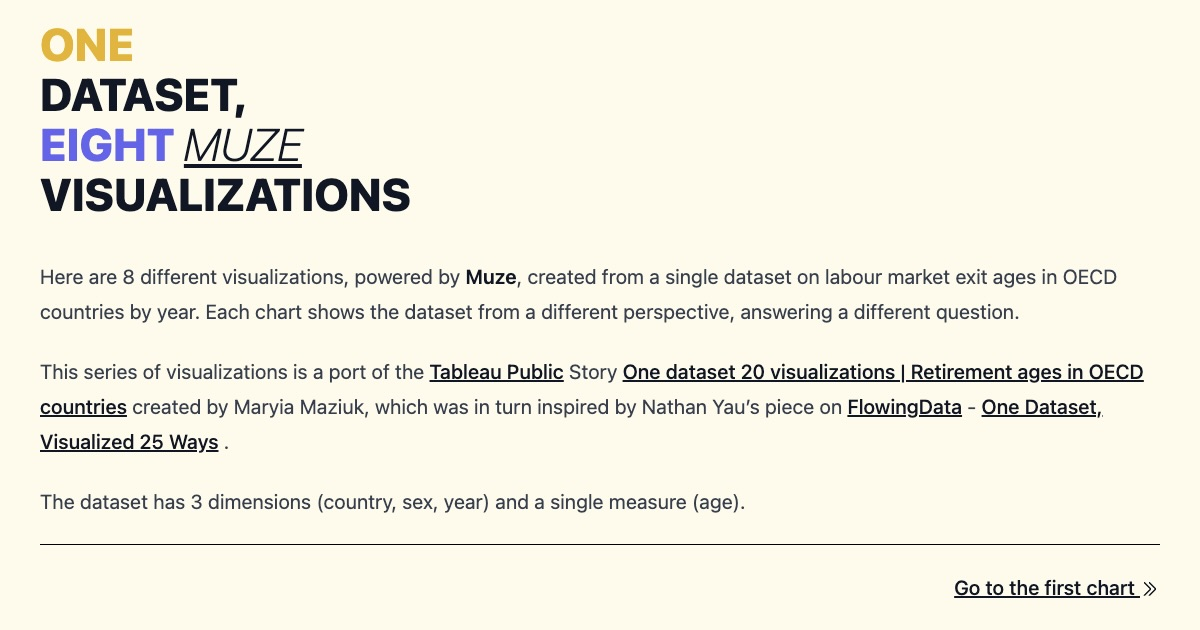
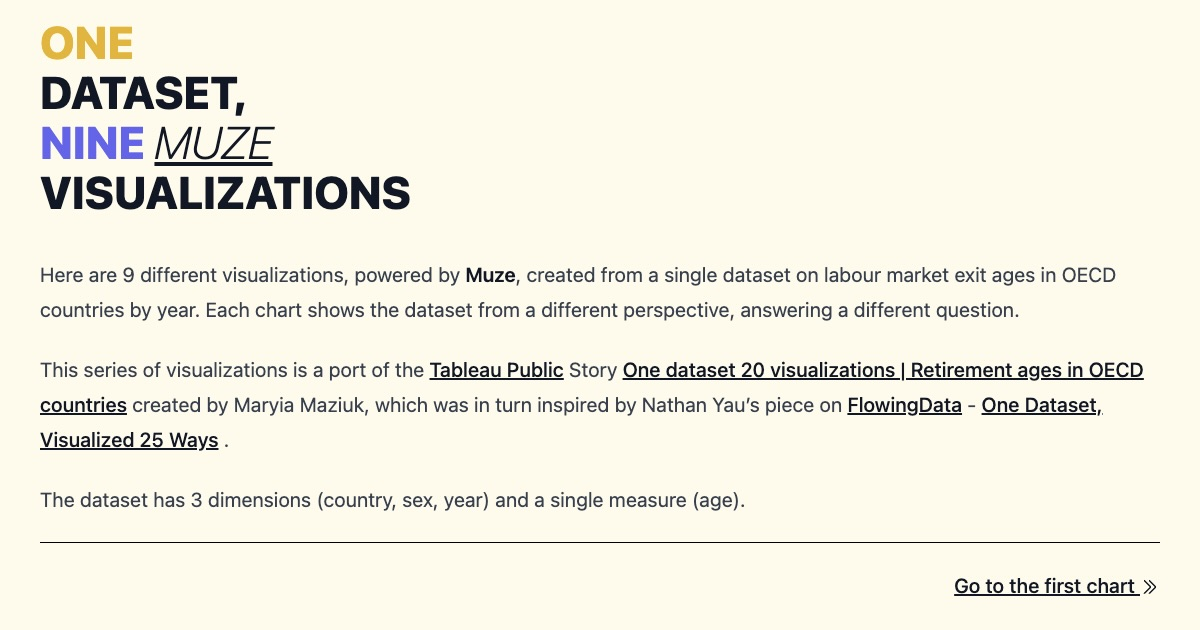
Done with basic diverging bar

diff --git a/src/lib/divergingbar.svelte b/src/lib/divergingbar.svelte
@@ -1,0 +1,94 @@
+<script lang="ts">
+	import { untrack } from 'svelte';
+
+	type Muze = typeof import('@viz/muze').default;
+
+	let {
+		muze,
+		schema = [],
+		data = [[]]
+	}: {
+		muze: Muze;
+		schema: Array<{ name: string; type: 'dimension' | 'measure' }>;
+		data: Array<Array<unknown>>;
+	} = $props();
+
+	const DataModel = $derived(muze.DataModel);
+	const loadedData = $derived(DataModel.loadDataSync(data, schema));
+	const dm = $derived(
+		new DataModel(loadedData).calculateVariable(
+			{ name: 'SUM(Male - Female Diff)', type: 'measure', defAggFn: 'sum' },
+			[
+				'avg(Effective labour market exit age (female))',
+				'avg(Effective labour market exit age (male))'
+			],
+			(female: number, male: number) => male - female
+		)
+	);
+	const env = $derived(muze());
+	const canvas = $derived(env.canvas());
+
+	let viz: HTMLDivElement | null = $state(null);
+
+	$effect(() => {
+		canvas
+			.data(dm)
+			.rows(['Region (group)', 'Country'])
+			.columns([['SUM(Male - Female Diff)'], ['SUM(Male - Female Diff)']])
+			.color('SUM(Male - Female Diff)')
+			.config({
+				rows: {
+					facets: {
+						fields: {
+							'Region (group)': {
+								ordering: {
+									type: 'custom',
+									values: [
+										'Latin America',
+										'Oceania',
+										'N. America',
+										'Europe & Middle East',
+										'East Asia'
+									]
+								}
+							}
+						}
+					}
+				},
+				axes: {
+					x: {
+						showAxisName: false
+					},
+					y: {
+						fields: {
+							Country: {
+								ordering: {
+									type: 'field',
+									direction: 'desc',
+									field: { name: 'SUM(Male - Female Diff)', aggregation: 'sum' }
+								}
+							}
+						}
+					}
+				},
+				legend: {
+					color: {
+						domain: [-2, 7],
+						range: ['#6366f1', '#d4d4d4', '#eab308'],
+						stops: [-2, 0, 7]
+					}
+				}
+			});
+	});
+
+	$effect(() => {
+		viz;
+		untrack(() => canvas.mount(viz));
+
+		return () => {
+			canvas.dispose();
+		};
+	});
+</script>
+
+<div class="divergingbar size-full" bind:this={viz}></div>

diff --git a/src/routes/+layout.svelte b/src/routes/+layout.svelte
@@ -8,21 +8,21 @@
 </script>
 
 <svelte:head>
-	<title>One Dataset, Eight Muze Visualizations</title>
+	<title>One Dataset, Nine Muze Visualizations</title>
 	<meta
 		name="description"
-		content="Discover the versatility of Muze with 8 different visualizations answering questions about labour market exits in OECD countries."
+		content="Discover the versatility of Muze with 9 different visualizations answering questions about labour market exits in OECD countries."
 	/>
 	<meta property="og:type" content="website" />
 	<meta property="og:logo" content={`${$page.url.origin}/images/og-home.jpeg`} />
 	<meta property="og:url" content={$page.url.toString()} />
 	<meta property="twitter:card" content="summary_large_image" />
 	<meta property="og:image" content={`${$page.url.origin}/images/og-home.jpeg`} />
-	<meta property="og:site_name" content="One Dataset, Eight Muze Visualizations" />
-	<meta property="og:title" content="One Dataset, Eight Muze Visualizations" />
+	<meta property="og:site_name" content="One Dataset, Nine Muze Visualizations" />
+	<meta property="og:title" content="One Dataset, Nine Muze Visualizations" />
 	<meta
 		property="og:description"
-		content="Discover the versatility of Muze with 8 different visualizations answering questions about labour market exits in OECD countries."
+		content="Discover the versatility of Muze with 9 different visualizations answering questions about labour market exits in OECD countries."
 	/>
 </svelte:head>
 

diff --git a/src/routes/+page.svelte b/src/routes/+page.svelte
@@ -31,6 +31,10 @@
 		{
 			name: 'slopestrip',
 			alt: 'Slope and Strip Hybrid'
+		},
+		{
+			name: 'divergingbar',
+			alt: 'Diverging Bar Chart'
 		}
 	];
 </script>
@@ -45,7 +49,7 @@
 						<br />
 						DATASET,
 						<br />
-						<span class="text-indigo-500">EIGHT</span>
+						<span class="text-indigo-500">NINE</span>
 						<span class="font-extralight underline"><em>MUZE</em></span>
 						<br />
 						VISUALIZATIONS
@@ -53,7 +57,7 @@
 				</header>
 				<section>
 					<p>
-						Here are 8 different visualizations, powered by <strong>Muze</strong>, created from a
+						Here are 9 different visualizations, powered by <strong>Muze</strong>, created from a
 						single dataset on labour market exit ages in OECD countries by year. Each chart shows
 						the dataset from a different perspective, answering a different question.
 					</p>

diff --git a/src/routes/divergingbar/+page.svelte b/src/routes/divergingbar/+page.svelte
@@ -1,0 +1,15 @@
+<script lang="ts">
+	import { DivergingBar } from '$lib';
+	import type { PageData } from './$types';
+
+	let { data: pageData }: { data: PageData } = $props();
+
+	const schema = $derived(pageData.schema);
+	const data = $derived(pageData.data);
+</script>
+
+<main class="h-screen w-screen p-4">
+	{#await import('@viz/muze') then { default: muze }}
+		<DivergingBar {muze} {schema} {data}></DivergingBar>
+	{/await}
+</main>

diff --git a/src/lib/index.ts b/src/lib/index.ts
@@ -7,6 +7,7 @@ import Slopeplot from './slopeplot.svelte';
 import Arrowplot from './arrowplot.svelte';
 import SmallMultiples from './smallmultiples.svelte';
 import SlopeStrip from './slopestrip.svelte';
+import DivergingBar from './divergingbar.svelte';
 
 export {
 	Bar,
@@ -17,5 +18,6 @@ export {
 	Slopeplot,
 	Arrowplot,
 	SmallMultiples,
-	SlopeStrip
+	SlopeStrip,
+	DivergingBar
 };

diff --git a/src/routes/divergingbar/+page.ts b/src/routes/divergingbar/+page.ts
@@ -1,0 +1,13 @@
+import type { PageLoad } from './$types';
+
+const load: PageLoad = async ({ fetch }) => {
+	const schema = await fetch('/retirement_OECD/diverging-bar-schema.json').then((res) =>
+		res.json()
+	);
+
+	const data = await fetch('/retirement_OECD/diverging-bar.json').then((res) => res.json());
+
+	return { schema, data };
+};
+
+export { load };
